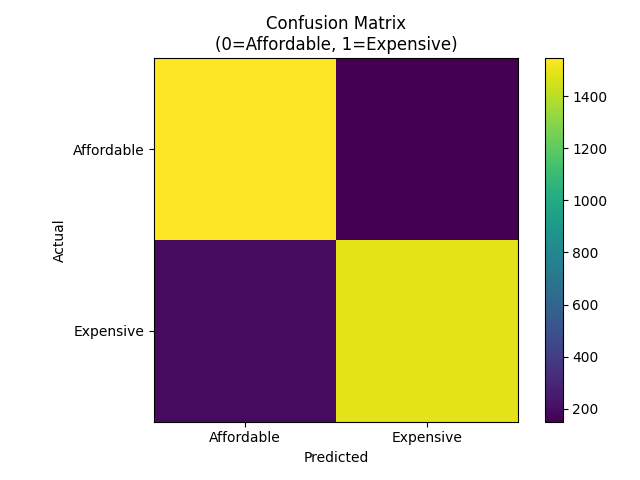
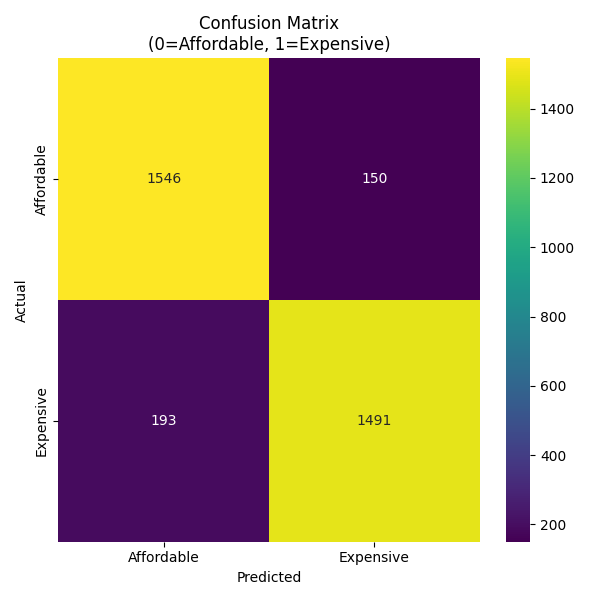
added error_heatmap in day 4 evaluation and updated day 3 confusion matrix with seaborn

diff --git a/WEEK6/Day4/src/evaluation/shap_analysis.py b/WEEK6/Day4/src/evaluation/shap_analysis.py
@@ -5,6 +5,8 @@ import shap
 import numpy as np
 import pandas as pd
 import matplotlib.pyplot as plt
+import seaborn as sns
+from sklearn.metrics import confusion_matrix
 from ..utils.logger import setup_logger
 
 logger = setup_logger()
@@ -69,6 +71,34 @@ importance_df = pd.DataFrame({
 }).sort_values('importance', ascending=False).head(10)
 
 importance_df.to_csv(os.path.join(OUTPUT_DIR, "top_features.csv"), index=False)
+
+X_test = pd.read_csv(os.path.join(DATA_DIR, "X_test.csv"))
+y_test_raw = pd.read_csv(os.path.join(DATA_DIR, "y_test.csv")).values.ravel()
+y_train_raw = pd.read_csv(os.path.join(DATA_DIR, "y_train.csv")).values.ravel()
+y_test_class = (y_test_raw > np.median(y_train_raw)).astype(int)
+
+y_pred = model.predict(X_test)
+cm = confusion_matrix(y_test_class, y_pred)
+
+plt.figure(figsize=(4, 3))
+sns.heatmap(
+    cm,
+    annot=True,        # show values inside squares
+    fmt="d",
+    cmap="Blues",
+    cbar=True,
+    xticklabels=["Affordable", "Expensive"],
+    yticklabels=["Affordable", "Expensive"],
+)
+plt.xlabel("Predicted Label")
+plt.ylabel("Actual Label")
+plt.title("Confusion Matrix: XGBoost (Day 4)")
+plt.tight_layout()
+plt.savefig(os.path.join(OUTPUT_DIR, "error_heatmap.png"), dpi=300)
+plt.close()
+print("Saved: error_heatmap.png")
+logger.info("Saved error_heatmap.png")
+
 print(f"Saved top 10 features: top_features.csv")
 print("\nTop 5 features:")
 print(importance_df.head())
@@ -79,5 +109,6 @@ print("\nSHAP plots saved:")
 print("- shap_summary.png")
 print("- feature_importance.png") 
 print("- top_features.csv")
+print("- error_heatmap.png")
 print("Day 4 SHAP analysis COMPLETE")
 logger.info("Day 4 SHAP analysis complete")

diff --git a/WEEK6/Day3/src/training/train.py b/WEEK6/Day3/src/training/train.py
@@ -15,6 +15,7 @@ from sklearn.linear_model import LogisticRegression
 from sklearn.ensemble import RandomForestClassifier
 from sklearn.neural_network import MLPClassifier
 from xgboost import XGBClassifier
+import seaborn as sns
 
 logger = setup_logger()
 
@@ -100,13 +101,13 @@ test_metrics = {
 
 # Confusion matrix plot
 cm = confusion_matrix(y_test_class, y_pred)
-plt.imshow(cm, cmap="viridis")
+plt.figure(figsize=(6, 6))
+sns.heatmap(cm, annot=True, fmt="d", cmap="viridis", 
+            xticklabels=["Affordable", "Expensive"], 
+            yticklabels=["Affordable", "Expensive"])
 plt.title("Confusion Matrix\n(0=Affordable, 1=Expensive)")
-plt.colorbar()
 plt.xlabel("Predicted")
 plt.ylabel("Actual")
-plt.xticks([0, 1], ["Affordable", "Expensive"])
-plt.yticks([0, 1], ["Affordable", "Expensive"])
 plt.tight_layout()
 plt.savefig(EVAL_DIR / "confusion_matrix.png")
 plt.close()
